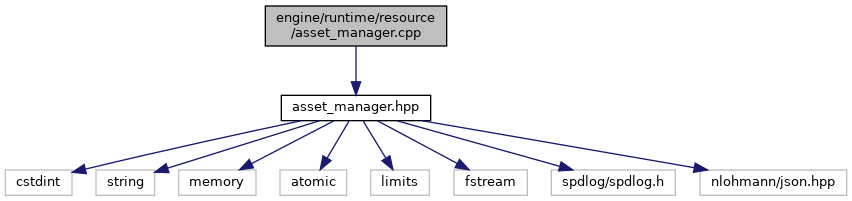
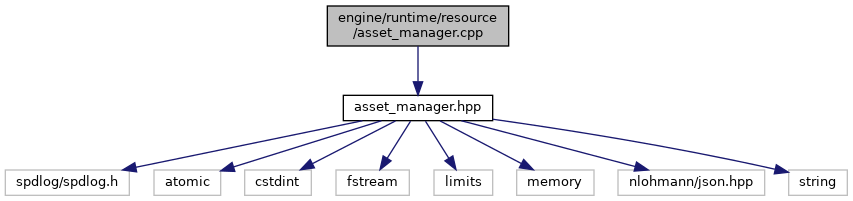
deploy: edd808a5c090523845977c7a2e71c7c18ed1472b

diff --git a/asset__manager_8hpp_source.html b/asset__manager_8hpp_source.html
@@ -92,103 +92,96 @@ $(document).ready(function(){initNavTree('asset__manager_8hpp_source.html',''); 
 <div class="line"><a name="l00005"></a><span class="lineno">    5</span>&#160;<span class="preprocessor">#ifndef TAIXUENGINE_RESOURCE_MANAGER_HPP</span></div>
 <div class="line"><a name="l00006"></a><span class="lineno">    6</span>&#160;<span class="preprocessor">#define TAIXUENGINE_RESOURCE_MANAGER_HPP</span></div>
 <div class="line"><a name="l00007"></a><span class="lineno">    7</span>&#160; </div>
-<div class="line"><a name="l00008"></a><span class="lineno">    8</span>&#160;<span class="preprocessor">#include &lt;cstdint&gt;</span></div>
-<div class="line"><a name="l00009"></a><span class="lineno">    9</span>&#160;<span class="preprocessor">#include&lt;string&gt;</span></div>
-<div class="line"><a name="l00010"></a><span class="lineno">   10</span>&#160;<span class="preprocessor">#include&lt;memory&gt;</span></div>
-<div class="line"><a name="l00011"></a><span class="lineno">   11</span>&#160;<span class="preprocessor">#include&lt;atomic&gt;</span></div>
-<div class="line"><a name="l00012"></a><span class="lineno">   12</span>&#160;<span class="preprocessor">#include&lt;limits&gt;</span></div>
-<div class="line"><a name="l00013"></a><span class="lineno">   13</span>&#160;<span class="preprocessor">#include &lt; fstream &gt;</span></div>
-<div class="line"><a name="l00014"></a><span class="lineno">   14</span>&#160;<span class="preprocessor">#include &lt;spdlog/spdlog.h&gt;</span></div>
-<div class="line"><a name="l00015"></a><span class="lineno">   15</span>&#160;<span class="preprocessor">#include&lt;nlohmann/json.hpp&gt;</span></div>
-<div class="line"><a name="l00016"></a><span class="lineno">   16</span>&#160;<span class="preprocessor">#include &lt;spdlog/spdlog.h&gt;</span></div>
+<div class="line"><a name="l00008"></a><span class="lineno">    8</span>&#160;<span class="preprocessor">#include &lt;spdlog/spdlog.h&gt;</span></div>
+<div class="line"><a name="l00009"></a><span class="lineno">    9</span>&#160; </div>
+<div class="line"><a name="l00010"></a><span class="lineno">   10</span>&#160;<span class="preprocessor">#include &lt;atomic&gt;</span></div>
+<div class="line"><a name="l00011"></a><span class="lineno">   11</span>&#160;<span class="preprocessor">#include &lt;cstdint&gt;</span></div>
+<div class="line"><a name="l00012"></a><span class="lineno">   12</span>&#160;<span class="preprocessor">#include &lt;fstream&gt;</span></div>
+<div class="line"><a name="l00013"></a><span class="lineno">   13</span>&#160;<span class="preprocessor">#include &lt;limits&gt;</span></div>
+<div class="line"><a name="l00014"></a><span class="lineno">   14</span>&#160;<span class="preprocessor">#include &lt;memory&gt;</span></div>
+<div class="line"><a name="l00015"></a><span class="lineno">   15</span>&#160;<span class="preprocessor">#include &lt;nlohmann/json.hpp&gt;</span></div>
+<div class="line"><a name="l00016"></a><span class="lineno">   16</span>&#160;<span class="preprocessor">#include &lt;string&gt;</span></div>
 <div class="line"><a name="l00017"></a><span class="lineno">   17</span>&#160; </div>
 <div class="line"><a name="l00018"></a><span class="lineno">   18</span>&#160; </div>
 <div class="line"><a name="l00019"></a><span class="lineno">   19</span>&#160;<span class="keyword">namespace </span><a class="code" href="namespacetaixu.html">taixu</a> {</div>
 <div class="line"><a name="l00020"></a><span class="lineno"><a class="line" href="namespacetaixu.html#ae915e42a97457bba37098bd5d36c633b">   20</a></span>&#160;constexpr std::uint8_t <a class="code" href="namespacetaixu.html#ae915e42a97457bba37098bd5d36c633b">INVALID_GUID</a> = std::numeric_limits&lt;std::uint8_t&gt;::max();</div>
-<div class="line"><a name="l00021"></a><span class="lineno"><a class="line" href="namespacetaixu.html#af3f42d835f57506d65a0964f16d2e5eb">   21</a></span>&#160;<span class="keyword">enum</span> <a class="code" href="namespacetaixu.html#af3f42d835f57506d65a0964f16d2e5eb">AssetType</a> {<a class="code" href="namespacetaixu.html#af3f42d835f57506d65a0964f16d2e5eba4ce415de7871d86f4a819a8776174405">Model</a>,<a class="code" href="structtaixu_1_1Texture.html">Texture</a>};</div>
-<div class="line"><a name="l00022"></a><span class="lineno"><a class="line" href="classtaixu_1_1GUID__Generator.html">   22</a></span>&#160;<span class="keyword">class </span><a class="code" href="classtaixu_1_1GUID__Generator.html">GUID_Generator</a> </div>
-<div class="line"><a name="l00023"></a><span class="lineno">   23</span>&#160;{</div>
-<div class="line"><a name="l00024"></a><span class="lineno">   24</span>&#160;<span class="keyword">public</span>:</div>
-<div class="line"><a name="l00025"></a><span class="lineno">   25</span>&#160;    <span class="keyword">static</span> std::uint8_t       <a class="code" href="classtaixu_1_1GUID__Generator.html#a4559a7695a5c3d089b8267e0dff4314c">generate_new_guid</a>();</div>
+<div class="line"><a name="l00021"></a><span class="lineno"><a class="line" href="namespacetaixu.html#af3f42d835f57506d65a0964f16d2e5eb">   21</a></span>&#160;<span class="keyword">enum</span> <a class="code" href="namespacetaixu.html#af3f42d835f57506d65a0964f16d2e5eb">AssetType</a> { <a class="code" href="namespacetaixu.html#af3f42d835f57506d65a0964f16d2e5eba4ce415de7871d86f4a819a8776174405">Model</a>, <a class="code" href="structtaixu_1_1Texture.html">Texture</a> };</div>
+<div class="line"><a name="l00022"></a><span class="lineno"><a class="line" href="classtaixu_1_1GUID__Generator.html">   22</a></span>&#160;<span class="keyword">class </span><a class="code" href="classtaixu_1_1GUID__Generator.html">GUID_Generator</a> {</div>
+<div class="line"><a name="l00023"></a><span class="lineno">   23</span>&#160;<span class="keyword">public</span>:</div>
+<div class="line"><a name="l00024"></a><span class="lineno">   24</span>&#160;    <span class="keyword">static</span> std::uint8_t <a class="code" href="classtaixu_1_1GUID__Generator.html#a4559a7695a5c3d089b8267e0dff4314c">generate_new_guid</a>();</div>
+<div class="line"><a name="l00025"></a><span class="lineno">   25</span>&#160; </div>
 <div class="line"><a name="l00026"></a><span class="lineno">   26</span>&#160;<span class="keyword">private</span>:</div>
 <div class="line"><a name="l00027"></a><span class="lineno"><a class="line" href="classtaixu_1_1GUID__Generator.html#a66f4c0e89960d7901013274e5912a7a4">   27</a></span>&#160;    <span class="keyword">static</span> std::atomic&lt;std::uint8_t&gt; <a class="code" href="classtaixu_1_1GUID__Generator.html#a66f4c0e89960d7901013274e5912a7a4">next_id</a>;</div>
 <div class="line"><a name="l00028"></a><span class="lineno">   28</span>&#160;};</div>
-<div class="line"><a name="l00029"></a><span class="lineno"><a class="line" href="structtaixu_1_1Asset.html">   29</a></span>&#160;<span class="keyword">struct </span><a class="code" href="structtaixu_1_1Asset.html">Asset</a> </div>
-<div class="line"><a name="l00030"></a><span class="lineno">   30</span>&#160;{</div>
-<div class="line"><a name="l00031"></a><span class="lineno"><a class="line" href="structtaixu_1_1Asset.html#a6b4d04eb01b3fe964fd59fc52d166cdf">   31</a></span>&#160;    std::uint8_t <a class="code" href="structtaixu_1_1Asset.html#a6b4d04eb01b3fe964fd59fc52d166cdf">guid</a>;</div>
-<div class="line"><a name="l00032"></a><span class="lineno"><a class="line" href="structtaixu_1_1Asset.html#add52499d1c566688d7402e92c2fc6fac">   32</a></span>&#160;    std::string <a class="code" href="structtaixu_1_1Asset.html#add52499d1c566688d7402e92c2fc6fac">name</a>;</div>
-<div class="line"><a name="l00033"></a><span class="lineno"><a class="line" href="structtaixu_1_1Asset.html#acf4cc5aa438489d5df63761ce5a43d02">   33</a></span>&#160;    std::string <a class="code" href="structtaixu_1_1Asset.html#acf4cc5aa438489d5df63761ce5a43d02">type</a>;</div>
-<div class="line"><a name="l00034"></a><span class="lineno"><a class="line" href="structtaixu_1_1Asset.html#a25291886a89269ab739dbc02c7da613f">   34</a></span>&#160;    std::string <a class="code" href="structtaixu_1_1Asset.html#a25291886a89269ab739dbc02c7da613f">location</a>;</div>
-<div class="line"><a name="l00035"></a><span class="lineno">   35</span>&#160;};</div>
-<div class="line"><a name="l00036"></a><span class="lineno"><a class="line" href="classtaixu_1_1Asset__Manager.html">   36</a></span>&#160;<span class="keyword">class </span><a class="code" href="classtaixu_1_1Asset__Manager.html">Asset_Manager</a> </div>
-<div class="line"><a name="l00037"></a><span class="lineno">   37</span>&#160;{</div>
-<div class="line"><a name="l00038"></a><span class="lineno">   38</span>&#160;<span class="keyword">public</span>:</div>
-<div class="line"><a name="l00039"></a><span class="lineno"><a class="line" href="classtaixu_1_1Asset__Manager.html#ad852b85b2f8bcb58ab1d9c48f5f93bc7">   39</a></span>&#160;    <a class="code" href="classtaixu_1_1Asset__Manager.html#ad852b85b2f8bcb58ab1d9c48f5f93bc7">Asset_Manager</a>()=<span class="keywordflow">default</span>;</div>
-<div class="line"><a name="l00040"></a><span class="lineno"><a class="line" href="classtaixu_1_1Asset__Manager.html#ae84abc64f39ea8ea155ea6890fb81f1b">   40</a></span>&#160;    std::vector&lt;std::shared_ptr&lt;Asset&gt;&gt; <a class="code" href="classtaixu_1_1Asset__Manager.html#ae84abc64f39ea8ea155ea6890fb81f1b">asset_list</a>;</div>
-<div class="line"><a name="l00041"></a><span class="lineno"><a class="line" href="classtaixu_1_1Asset__Manager.html#aebaa5239bbb7f0c76d0266d7fd5d5280">   41</a></span>&#160;    <span class="keyword">using</span> <a class="code" href="classtaixu_1_1Asset__Manager.html#aebaa5239bbb7f0c76d0266d7fd5d5280">Json</a>=nlohmann::json;</div>
-<div class="line"><a name="l00042"></a><span class="lineno"><a class="line" href="classtaixu_1_1Asset__Manager.html#a2306ad78335f66b090906db81e024fc2">   42</a></span>&#160;    std::string <a class="code" href="classtaixu_1_1Asset__Manager.html#a2306ad78335f66b090906db81e024fc2">asset_file_path</a> = <span class="stringliteral">&quot;INVALID&quot;</span>;</div>
-<div class="line"><a name="l00043"></a><span class="lineno">   43</span>&#160; </div>
-<div class="line"><a name="l00044"></a><span class="lineno"><a class="line" href="classtaixu_1_1Asset__Manager.html#a77196123f0cfdd2183eae565d6ce7fdb">   44</a></span>&#160;    <span class="keywordtype">void</span> <a class="code" href="classtaixu_1_1Asset__Manager.html#a77196123f0cfdd2183eae565d6ce7fdb">from_json</a>(<span class="keyword">const</span> <a class="code" href="classtaixu_1_1Asset__Manager.html#aebaa5239bbb7f0c76d0266d7fd5d5280">Json</a>&amp; j, std::shared_ptr&lt;Asset&gt; asset) {</div>
-<div class="line"><a name="l00045"></a><span class="lineno">   45</span>&#160;        j.at(<span class="stringliteral">&quot;type&quot;</span>).get_to(asset-&gt;type);</div>
-<div class="line"><a name="l00046"></a><span class="lineno">   46</span>&#160;        j.at(<span class="stringliteral">&quot;name&quot;</span>).get_to(asset-&gt;name);</div>
-<div class="line"><a name="l00047"></a><span class="lineno">   47</span>&#160;        j.at(<span class="stringliteral">&quot;location&quot;</span>).get_to(asset-&gt;location);</div>
-<div class="line"><a name="l00048"></a><span class="lineno">   48</span>&#160;    }</div>
-<div class="line"><a name="l00049"></a><span class="lineno"><a class="line" href="classtaixu_1_1Asset__Manager.html#a5de0f9f3a5aacab4faf0053e6584892e">   49</a></span>&#160;    <span class="keywordtype">void</span> <a class="code" href="classtaixu_1_1Asset__Manager.html#a5de0f9f3a5aacab4faf0053e6584892e">to_json</a>(<a class="code" href="classtaixu_1_1Asset__Manager.html#aebaa5239bbb7f0c76d0266d7fd5d5280">Json</a>&amp; j, std::shared_ptr&lt;Asset&gt; asset) {</div>
-<div class="line"><a name="l00050"></a><span class="lineno">   50</span>&#160;        j = <a class="code" href="classtaixu_1_1Asset__Manager.html#aebaa5239bbb7f0c76d0266d7fd5d5280">Json</a>{{<span class="stringliteral">&quot;type&quot;</span>, asset-&gt;type},</div>
-<div class="line"><a name="l00051"></a><span class="lineno">   51</span>&#160;                 {<span class="stringliteral">&quot;name&quot;</span>, asset-&gt;name},</div>
-<div class="line"><a name="l00052"></a><span class="lineno">   52</span>&#160;                 {<span class="stringliteral">&quot;location&quot;</span>, asset-&gt;location}};</div>
-<div class="line"><a name="l00053"></a><span class="lineno">   53</span>&#160;    }</div>
-<div class="line"><a name="l00054"></a><span class="lineno">   54</span>&#160;    </div>
-<div class="line"><a name="l00055"></a><span class="lineno"><a class="line" href="classtaixu_1_1Asset__Manager.html#a2063124a4e5496c48c6f90731b469881">   55</a></span>&#160;    <span class="keywordtype">void</span> <a class="code" href="classtaixu_1_1Asset__Manager.html#a2063124a4e5496c48c6f90731b469881">loadAsset</a>(std::string file_path) </div>
-<div class="line"><a name="l00056"></a><span class="lineno">   56</span>&#160;    {</div>
-<div class="line"><a name="l00057"></a><span class="lineno">   57</span>&#160;        std::ifstream f(file_path);</div>
-<div class="line"><a name="l00058"></a><span class="lineno">   58</span>&#160;        <span class="keywordflow">if</span> (!f.is_open()) </div>
-<div class="line"><a name="l00059"></a><span class="lineno">   59</span>&#160;        {</div>
-<div class="line"><a name="l00060"></a><span class="lineno">   60</span>&#160;            spdlog::debug(<span class="stringliteral">&quot;Unable to load Asset configure file&quot;</span>);</div>
-<div class="line"><a name="l00061"></a><span class="lineno">   61</span>&#160;        } </div>
-<div class="line"><a name="l00062"></a><span class="lineno">   62</span>&#160;        <span class="keywordflow">else</span></div>
-<div class="line"><a name="l00063"></a><span class="lineno">   63</span>&#160;            <a class="code" href="classtaixu_1_1Asset__Manager.html#a2306ad78335f66b090906db81e024fc2">asset_file_path</a> = file_path;</div>
-<div class="line"><a name="l00064"></a><span class="lineno">   64</span>&#160;        <a class="code" href="classtaixu_1_1Asset__Manager.html#aebaa5239bbb7f0c76d0266d7fd5d5280">Json</a> data =Json::parse(f);</div>
-<div class="line"><a name="l00065"></a><span class="lineno">   65</span>&#160; </div>
-<div class="line"><a name="l00066"></a><span class="lineno">   66</span>&#160;        <span class="keywordflow">for</span> (<span class="keyword">auto</span> i : data[<span class="stringliteral">&quot;assets&quot;</span>].items()) </div>
-<div class="line"><a name="l00067"></a><span class="lineno">   67</span>&#160;        {</div>
-<div class="line"><a name="l00068"></a><span class="lineno">   68</span>&#160;            std::shared_ptr&lt;Asset&gt; new_asset = std::make_shared&lt;Asset&gt;();</div>
-<div class="line"><a name="l00069"></a><span class="lineno">   69</span>&#160;            std::uint8_t new_guid = <a class="code" href="classtaixu_1_1GUID__Generator.html#a4559a7695a5c3d089b8267e0dff4314c">GUID_Generator::generate_new_guid</a>();</div>
-<div class="line"><a name="l00070"></a><span class="lineno">   70</span>&#160;            new_asset-&gt;guid       = new_guid;</div>
-<div class="line"><a name="l00071"></a><span class="lineno">   71</span>&#160;            <a class="code" href="classtaixu_1_1Asset__Manager.html#aebaa5239bbb7f0c76d0266d7fd5d5280">Json</a> j          = i.value();</div>
-<div class="line"><a name="l00072"></a><span class="lineno">   72</span>&#160;            <a class="code" href="classtaixu_1_1Asset__Manager.html#a77196123f0cfdd2183eae565d6ce7fdb">from_json</a>(j, new_asset);</div>
-<div class="line"><a name="l00073"></a><span class="lineno">   73</span>&#160;            <a class="code" href="classtaixu_1_1Asset__Manager.html#ae84abc64f39ea8ea155ea6890fb81f1b">asset_list</a>.push_back(new_asset);</div>
-<div class="line"><a name="l00074"></a><span class="lineno">   74</span>&#160;        }</div>
-<div class="line"><a name="l00075"></a><span class="lineno">   75</span>&#160;        <span class="comment">//int a = 0;</span></div>
-<div class="line"><a name="l00076"></a><span class="lineno">   76</span>&#160;    }</div>
-<div class="line"><a name="l00077"></a><span class="lineno">   77</span>&#160;    <span class="keywordtype">void</span> <a class="code" href="classtaixu_1_1Asset__Manager.html#ab630fb75b2826bf092b9446544b047ab">writeAsset</a>();</div>
-<div class="line"><a name="l00078"></a><span class="lineno">   78</span>&#160;    <span class="keywordtype">void</span> <a class="code" href="classtaixu_1_1Asset__Manager.html#a2063124a4e5496c48c6f90731b469881">loadAsset</a>(std::string file_path, <a class="code" href="namespacetaixu.html#af3f42d835f57506d65a0964f16d2e5eb">AssetType</a> asset_type);</div>
-<div class="line"><a name="l00079"></a><span class="lineno">   79</span>&#160;    </div>
-<div class="line"><a name="l00080"></a><span class="lineno">   80</span>&#160;};</div>
-<div class="line"><a name="l00081"></a><span class="lineno">   81</span>&#160;}</div>
-<div class="line"><a name="l00082"></a><span class="lineno">   82</span>&#160; </div>
-<div class="line"><a name="l00083"></a><span class="lineno">   83</span>&#160;<span class="preprocessor">#endif</span><span class="comment">//TAIXUENGINE_RESOURCE_MANAGER_HPP</span></div>
-<div class="ttc" id="aclasstaixu_1_1Asset__Manager_html"><div class="ttname"><a href="classtaixu_1_1Asset__Manager.html">taixu::Asset_Manager</a></div><div class="ttdef"><b>Definition:</b> asset_manager.hpp:37</div></div>
-<div class="ttc" id="aclasstaixu_1_1Asset__Manager_html_a2063124a4e5496c48c6f90731b469881"><div class="ttname"><a href="classtaixu_1_1Asset__Manager.html#a2063124a4e5496c48c6f90731b469881">taixu::Asset_Manager::loadAsset</a></div><div class="ttdeci">void loadAsset(std::string file_path)</div><div class="ttdef"><b>Definition:</b> asset_manager.hpp:55</div></div>
-<div class="ttc" id="aclasstaixu_1_1Asset__Manager_html_a2306ad78335f66b090906db81e024fc2"><div class="ttname"><a href="classtaixu_1_1Asset__Manager.html#a2306ad78335f66b090906db81e024fc2">taixu::Asset_Manager::asset_file_path</a></div><div class="ttdeci">std::string asset_file_path</div><div class="ttdef"><b>Definition:</b> asset_manager.hpp:42</div></div>
-<div class="ttc" id="aclasstaixu_1_1Asset__Manager_html_a5de0f9f3a5aacab4faf0053e6584892e"><div class="ttname"><a href="classtaixu_1_1Asset__Manager.html#a5de0f9f3a5aacab4faf0053e6584892e">taixu::Asset_Manager::to_json</a></div><div class="ttdeci">void to_json(Json &amp;j, std::shared_ptr&lt; Asset &gt; asset)</div><div class="ttdef"><b>Definition:</b> asset_manager.hpp:49</div></div>
-<div class="ttc" id="aclasstaixu_1_1Asset__Manager_html_a77196123f0cfdd2183eae565d6ce7fdb"><div class="ttname"><a href="classtaixu_1_1Asset__Manager.html#a77196123f0cfdd2183eae565d6ce7fdb">taixu::Asset_Manager::from_json</a></div><div class="ttdeci">void from_json(const Json &amp;j, std::shared_ptr&lt; Asset &gt; asset)</div><div class="ttdef"><b>Definition:</b> asset_manager.hpp:44</div></div>
+<div class="line"><a name="l00029"></a><span class="lineno"><a class="line" href="structtaixu_1_1Asset.html">   29</a></span>&#160;<span class="keyword">struct </span><a class="code" href="structtaixu_1_1Asset.html">Asset</a> {</div>
+<div class="line"><a name="l00030"></a><span class="lineno"><a class="line" href="structtaixu_1_1Asset.html#a6b4d04eb01b3fe964fd59fc52d166cdf">   30</a></span>&#160;    std::uint8_t <a class="code" href="structtaixu_1_1Asset.html#a6b4d04eb01b3fe964fd59fc52d166cdf">guid</a>;</div>
+<div class="line"><a name="l00031"></a><span class="lineno"><a class="line" href="structtaixu_1_1Asset.html#add52499d1c566688d7402e92c2fc6fac">   31</a></span>&#160;    std::string  <a class="code" href="structtaixu_1_1Asset.html#add52499d1c566688d7402e92c2fc6fac">name</a>;</div>
+<div class="line"><a name="l00032"></a><span class="lineno"><a class="line" href="structtaixu_1_1Asset.html#acf4cc5aa438489d5df63761ce5a43d02">   32</a></span>&#160;    std::string  <a class="code" href="structtaixu_1_1Asset.html#acf4cc5aa438489d5df63761ce5a43d02">type</a>;</div>
+<div class="line"><a name="l00033"></a><span class="lineno"><a class="line" href="structtaixu_1_1Asset.html#a25291886a89269ab739dbc02c7da613f">   33</a></span>&#160;    std::string  <a class="code" href="structtaixu_1_1Asset.html#a25291886a89269ab739dbc02c7da613f">location</a>;</div>
+<div class="line"><a name="l00034"></a><span class="lineno">   34</span>&#160;};</div>
+<div class="line"><a name="l00035"></a><span class="lineno"><a class="line" href="classtaixu_1_1Asset__Manager.html">   35</a></span>&#160;<span class="keyword">class </span><a class="code" href="classtaixu_1_1Asset__Manager.html">Asset_Manager</a> {</div>
+<div class="line"><a name="l00036"></a><span class="lineno">   36</span>&#160;<span class="keyword">public</span>:</div>
+<div class="line"><a name="l00037"></a><span class="lineno"><a class="line" href="classtaixu_1_1Asset__Manager.html#ad852b85b2f8bcb58ab1d9c48f5f93bc7">   37</a></span>&#160;    <a class="code" href="classtaixu_1_1Asset__Manager.html#ad852b85b2f8bcb58ab1d9c48f5f93bc7">Asset_Manager</a>() = <span class="keywordflow">default</span>;</div>
+<div class="line"><a name="l00038"></a><span class="lineno"><a class="line" href="classtaixu_1_1Asset__Manager.html#ae84abc64f39ea8ea155ea6890fb81f1b">   38</a></span>&#160;    std::vector&lt;std::shared_ptr&lt;Asset&gt;&gt; <a class="code" href="classtaixu_1_1Asset__Manager.html#ae84abc64f39ea8ea155ea6890fb81f1b">asset_list</a>;</div>
+<div class="line"><a name="l00039"></a><span class="lineno"><a class="line" href="classtaixu_1_1Asset__Manager.html#aebaa5239bbb7f0c76d0266d7fd5d5280">   39</a></span>&#160;    <span class="keyword">using</span> <a class="code" href="classtaixu_1_1Asset__Manager.html#aebaa5239bbb7f0c76d0266d7fd5d5280">Json</a>                  = nlohmann::json;</div>
+<div class="line"><a name="l00040"></a><span class="lineno"><a class="line" href="classtaixu_1_1Asset__Manager.html#a2306ad78335f66b090906db81e024fc2">   40</a></span>&#160;    std::string <a class="code" href="classtaixu_1_1Asset__Manager.html#a2306ad78335f66b090906db81e024fc2">asset_file_path</a> = <span class="stringliteral">&quot;INVALID&quot;</span>;</div>
+<div class="line"><a name="l00041"></a><span class="lineno">   41</span>&#160; </div>
+<div class="line"><a name="l00042"></a><span class="lineno"><a class="line" href="classtaixu_1_1Asset__Manager.html#a77196123f0cfdd2183eae565d6ce7fdb">   42</a></span>&#160;    <span class="keywordtype">void</span> <a class="code" href="classtaixu_1_1Asset__Manager.html#a77196123f0cfdd2183eae565d6ce7fdb">from_json</a>(<span class="keyword">const</span> <a class="code" href="classtaixu_1_1Asset__Manager.html#aebaa5239bbb7f0c76d0266d7fd5d5280">Json</a>&amp; j, std::shared_ptr&lt;Asset&gt; asset) {</div>
+<div class="line"><a name="l00043"></a><span class="lineno">   43</span>&#160;        j.at(<span class="stringliteral">&quot;type&quot;</span>).get_to(asset-&gt;type);</div>
+<div class="line"><a name="l00044"></a><span class="lineno">   44</span>&#160;        j.at(<span class="stringliteral">&quot;name&quot;</span>).get_to(asset-&gt;name);</div>
+<div class="line"><a name="l00045"></a><span class="lineno">   45</span>&#160;        j.at(<span class="stringliteral">&quot;location&quot;</span>).get_to(asset-&gt;location);</div>
+<div class="line"><a name="l00046"></a><span class="lineno">   46</span>&#160;    }</div>
+<div class="line"><a name="l00047"></a><span class="lineno"><a class="line" href="classtaixu_1_1Asset__Manager.html#a5de0f9f3a5aacab4faf0053e6584892e">   47</a></span>&#160;    <span class="keywordtype">void</span> <a class="code" href="classtaixu_1_1Asset__Manager.html#a5de0f9f3a5aacab4faf0053e6584892e">to_json</a>(<a class="code" href="classtaixu_1_1Asset__Manager.html#aebaa5239bbb7f0c76d0266d7fd5d5280">Json</a>&amp; j, std::shared_ptr&lt;Asset&gt; asset) {</div>
+<div class="line"><a name="l00048"></a><span class="lineno">   48</span>&#160;        j = <a class="code" href="classtaixu_1_1Asset__Manager.html#aebaa5239bbb7f0c76d0266d7fd5d5280">Json</a>{{<span class="stringliteral">&quot;type&quot;</span>, asset-&gt;type},</div>
+<div class="line"><a name="l00049"></a><span class="lineno">   49</span>&#160;                 {<span class="stringliteral">&quot;name&quot;</span>, asset-&gt;name},</div>
+<div class="line"><a name="l00050"></a><span class="lineno">   50</span>&#160;                 {<span class="stringliteral">&quot;location&quot;</span>, asset-&gt;location}};</div>
+<div class="line"><a name="l00051"></a><span class="lineno">   51</span>&#160;    }</div>
+<div class="line"><a name="l00052"></a><span class="lineno">   52</span>&#160; </div>
+<div class="line"><a name="l00053"></a><span class="lineno"><a class="line" href="classtaixu_1_1Asset__Manager.html#a2063124a4e5496c48c6f90731b469881">   53</a></span>&#160;    <span class="keywordtype">void</span> <a class="code" href="classtaixu_1_1Asset__Manager.html#a2063124a4e5496c48c6f90731b469881">loadAsset</a>(std::string file_path) {</div>
+<div class="line"><a name="l00054"></a><span class="lineno">   54</span>&#160;        std::ifstream f(file_path);</div>
+<div class="line"><a name="l00055"></a><span class="lineno">   55</span>&#160;        <span class="keywordflow">if</span> (!f.is_open()) {</div>
+<div class="line"><a name="l00056"></a><span class="lineno">   56</span>&#160;            spdlog::debug(<span class="stringliteral">&quot;Unable to load Asset configure file&quot;</span>);</div>
+<div class="line"><a name="l00057"></a><span class="lineno">   57</span>&#160;        } <span class="keywordflow">else</span></div>
+<div class="line"><a name="l00058"></a><span class="lineno">   58</span>&#160;            <a class="code" href="classtaixu_1_1Asset__Manager.html#a2306ad78335f66b090906db81e024fc2">asset_file_path</a> = file_path;</div>
+<div class="line"><a name="l00059"></a><span class="lineno">   59</span>&#160;        <a class="code" href="classtaixu_1_1Asset__Manager.html#aebaa5239bbb7f0c76d0266d7fd5d5280">Json</a> data = Json::parse(f);</div>
+<div class="line"><a name="l00060"></a><span class="lineno">   60</span>&#160; </div>
+<div class="line"><a name="l00061"></a><span class="lineno">   61</span>&#160;        <span class="keywordflow">for</span> (<span class="keyword">auto</span> i : data[<span class="stringliteral">&quot;assets&quot;</span>].items()) {</div>
+<div class="line"><a name="l00062"></a><span class="lineno">   62</span>&#160;            std::shared_ptr&lt;Asset&gt; new_asset = std::make_shared&lt;Asset&gt;();</div>
+<div class="line"><a name="l00063"></a><span class="lineno">   63</span>&#160;            std::uint8_t new_guid = <a class="code" href="classtaixu_1_1GUID__Generator.html#a4559a7695a5c3d089b8267e0dff4314c">GUID_Generator::generate_new_guid</a>();</div>
+<div class="line"><a name="l00064"></a><span class="lineno">   64</span>&#160;            new_asset-&gt;guid       = new_guid;</div>
+<div class="line"><a name="l00065"></a><span class="lineno">   65</span>&#160;            <a class="code" href="classtaixu_1_1Asset__Manager.html#aebaa5239bbb7f0c76d0266d7fd5d5280">Json</a> j                = i.value();</div>
+<div class="line"><a name="l00066"></a><span class="lineno">   66</span>&#160;            <a class="code" href="classtaixu_1_1Asset__Manager.html#a77196123f0cfdd2183eae565d6ce7fdb">from_json</a>(j, new_asset);</div>
+<div class="line"><a name="l00067"></a><span class="lineno">   67</span>&#160;            <a class="code" href="classtaixu_1_1Asset__Manager.html#ae84abc64f39ea8ea155ea6890fb81f1b">asset_list</a>.push_back(new_asset);</div>
+<div class="line"><a name="l00068"></a><span class="lineno">   68</span>&#160;        }</div>
+<div class="line"><a name="l00069"></a><span class="lineno">   69</span>&#160;        <span class="comment">//int a = 0;</span></div>
+<div class="line"><a name="l00070"></a><span class="lineno">   70</span>&#160;    }</div>
+<div class="line"><a name="l00071"></a><span class="lineno">   71</span>&#160;    <span class="keywordtype">void</span> <a class="code" href="classtaixu_1_1Asset__Manager.html#ab630fb75b2826bf092b9446544b047ab">writeAsset</a>();</div>
+<div class="line"><a name="l00072"></a><span class="lineno">   72</span>&#160;    <span class="keywordtype">void</span> <a class="code" href="classtaixu_1_1Asset__Manager.html#a2063124a4e5496c48c6f90731b469881">loadAsset</a>(std::string file_path, <a class="code" href="namespacetaixu.html#af3f42d835f57506d65a0964f16d2e5eb">AssetType</a> asset_type);</div>
+<div class="line"><a name="l00073"></a><span class="lineno">   73</span>&#160;};</div>
+<div class="line"><a name="l00074"></a><span class="lineno">   74</span>&#160;}<span class="comment">// namespace taixu</span></div>
+<div class="line"><a name="l00075"></a><span class="lineno">   75</span>&#160; </div>
+<div class="line"><a name="l00076"></a><span class="lineno">   76</span>&#160;<span class="preprocessor">#endif</span><span class="comment">//TAIXUENGINE_RESOURCE_MANAGER_HPP</span></div>
+<div class="ttc" id="aclasstaixu_1_1Asset__Manager_html"><div class="ttname"><a href="classtaixu_1_1Asset__Manager.html">taixu::Asset_Manager</a></div><div class="ttdef"><b>Definition:</b> asset_manager.hpp:35</div></div>
+<div class="ttc" id="aclasstaixu_1_1Asset__Manager_html_a2063124a4e5496c48c6f90731b469881"><div class="ttname"><a href="classtaixu_1_1Asset__Manager.html#a2063124a4e5496c48c6f90731b469881">taixu::Asset_Manager::loadAsset</a></div><div class="ttdeci">void loadAsset(std::string file_path)</div><div class="ttdef"><b>Definition:</b> asset_manager.hpp:53</div></div>
+<div class="ttc" id="aclasstaixu_1_1Asset__Manager_html_a2306ad78335f66b090906db81e024fc2"><div class="ttname"><a href="classtaixu_1_1Asset__Manager.html#a2306ad78335f66b090906db81e024fc2">taixu::Asset_Manager::asset_file_path</a></div><div class="ttdeci">std::string asset_file_path</div><div class="ttdef"><b>Definition:</b> asset_manager.hpp:40</div></div>
+<div class="ttc" id="aclasstaixu_1_1Asset__Manager_html_a5de0f9f3a5aacab4faf0053e6584892e"><div class="ttname"><a href="classtaixu_1_1Asset__Manager.html#a5de0f9f3a5aacab4faf0053e6584892e">taixu::Asset_Manager::to_json</a></div><div class="ttdeci">void to_json(Json &amp;j, std::shared_ptr&lt; Asset &gt; asset)</div><div class="ttdef"><b>Definition:</b> asset_manager.hpp:47</div></div>
+<div class="ttc" id="aclasstaixu_1_1Asset__Manager_html_a77196123f0cfdd2183eae565d6ce7fdb"><div class="ttname"><a href="classtaixu_1_1Asset__Manager.html#a77196123f0cfdd2183eae565d6ce7fdb">taixu::Asset_Manager::from_json</a></div><div class="ttdeci">void from_json(const Json &amp;j, std::shared_ptr&lt; Asset &gt; asset)</div><div class="ttdef"><b>Definition:</b> asset_manager.hpp:42</div></div>
 <div class="ttc" id="aclasstaixu_1_1Asset__Manager_html_ab630fb75b2826bf092b9446544b047ab"><div class="ttname"><a href="classtaixu_1_1Asset__Manager.html#ab630fb75b2826bf092b9446544b047ab">taixu::Asset_Manager::writeAsset</a></div><div class="ttdeci">void writeAsset()</div><div class="ttdef"><b>Definition:</b> asset_manager.cpp:19</div></div>
 <div class="ttc" id="aclasstaixu_1_1Asset__Manager_html_ad852b85b2f8bcb58ab1d9c48f5f93bc7"><div class="ttname"><a href="classtaixu_1_1Asset__Manager.html#ad852b85b2f8bcb58ab1d9c48f5f93bc7">taixu::Asset_Manager::Asset_Manager</a></div><div class="ttdeci">Asset_Manager()=default</div></div>
-<div class="ttc" id="aclasstaixu_1_1Asset__Manager_html_ae84abc64f39ea8ea155ea6890fb81f1b"><div class="ttname"><a href="classtaixu_1_1Asset__Manager.html#ae84abc64f39ea8ea155ea6890fb81f1b">taixu::Asset_Manager::asset_list</a></div><div class="ttdeci">std::vector&lt; std::shared_ptr&lt; Asset &gt; &gt; asset_list</div><div class="ttdef"><b>Definition:</b> asset_manager.hpp:40</div></div>
-<div class="ttc" id="aclasstaixu_1_1Asset__Manager_html_aebaa5239bbb7f0c76d0266d7fd5d5280"><div class="ttname"><a href="classtaixu_1_1Asset__Manager.html#aebaa5239bbb7f0c76d0266d7fd5d5280">taixu::Asset_Manager::Json</a></div><div class="ttdeci">nlohmann::json Json</div><div class="ttdef"><b>Definition:</b> asset_manager.hpp:41</div></div>
-<div class="ttc" id="aclasstaixu_1_1GUID__Generator_html"><div class="ttname"><a href="classtaixu_1_1GUID__Generator.html">taixu::GUID_Generator</a></div><div class="ttdef"><b>Definition:</b> asset_manager.hpp:23</div></div>
+<div class="ttc" id="aclasstaixu_1_1Asset__Manager_html_ae84abc64f39ea8ea155ea6890fb81f1b"><div class="ttname"><a href="classtaixu_1_1Asset__Manager.html#ae84abc64f39ea8ea155ea6890fb81f1b">taixu::Asset_Manager::asset_list</a></div><div class="ttdeci">std::vector&lt; std::shared_ptr&lt; Asset &gt; &gt; asset_list</div><div class="ttdef"><b>Definition:</b> asset_manager.hpp:38</div></div>
+<div class="ttc" id="aclasstaixu_1_1Asset__Manager_html_aebaa5239bbb7f0c76d0266d7fd5d5280"><div class="ttname"><a href="classtaixu_1_1Asset__Manager.html#aebaa5239bbb7f0c76d0266d7fd5d5280">taixu::Asset_Manager::Json</a></div><div class="ttdeci">nlohmann::json Json</div><div class="ttdef"><b>Definition:</b> asset_manager.hpp:39</div></div>
+<div class="ttc" id="aclasstaixu_1_1GUID__Generator_html"><div class="ttname"><a href="classtaixu_1_1GUID__Generator.html">taixu::GUID_Generator</a></div><div class="ttdef"><b>Definition:</b> asset_manager.hpp:22</div></div>
 <div class="ttc" id="aclasstaixu_1_1GUID__Generator_html_a4559a7695a5c3d089b8267e0dff4314c"><div class="ttname"><a href="classtaixu_1_1GUID__Generator.html#a4559a7695a5c3d089b8267e0dff4314c">taixu::GUID_Generator::generate_new_guid</a></div><div class="ttdeci">static std::uint8_t generate_new_guid()</div><div class="ttdef"><b>Definition:</b> asset_manager.cpp:11</div></div>
 <div class="ttc" id="aclasstaixu_1_1GUID__Generator_html_a66f4c0e89960d7901013274e5912a7a4"><div class="ttname"><a href="classtaixu_1_1GUID__Generator.html#a66f4c0e89960d7901013274e5912a7a4">taixu::GUID_Generator::next_id</a></div><div class="ttdeci">static std::atomic&lt; std::uint8_t &gt; next_id</div><div class="ttdef"><b>Definition:</b> asset_manager.hpp:27</div></div>
 <div class="ttc" id="anamespacetaixu_html"><div class="ttname"><a href="namespacetaixu.html">taixu</a></div><div class="ttdef"><b>Definition:</b> application.cpp:13</div></div>
 <div class="ttc" id="anamespacetaixu_html_ae915e42a97457bba37098bd5d36c633b"><div class="ttname"><a href="namespacetaixu.html#ae915e42a97457bba37098bd5d36c633b">taixu::INVALID_GUID</a></div><div class="ttdeci">constexpr std::uint8_t INVALID_GUID</div><div class="ttdef"><b>Definition:</b> asset_manager.hpp:20</div></div>
 <div class="ttc" id="anamespacetaixu_html_af3f42d835f57506d65a0964f16d2e5eb"><div class="ttname"><a href="namespacetaixu.html#af3f42d835f57506d65a0964f16d2e5eb">taixu::AssetType</a></div><div class="ttdeci">AssetType</div><div class="ttdef"><b>Definition:</b> asset_manager.hpp:21</div></div>
 <div class="ttc" id="anamespacetaixu_html_af3f42d835f57506d65a0964f16d2e5eba4ce415de7871d86f4a819a8776174405"><div class="ttname"><a href="namespacetaixu.html#af3f42d835f57506d65a0964f16d2e5eba4ce415de7871d86f4a819a8776174405">taixu::Model</a></div><div class="ttdeci">@ Model</div><div class="ttdef"><b>Definition:</b> asset_manager.hpp:21</div></div>
-<div class="ttc" id="astructtaixu_1_1Asset_html"><div class="ttname"><a href="structtaixu_1_1Asset.html">taixu::Asset</a></div><div class="ttdef"><b>Definition:</b> asset_manager.hpp:30</div></div>
-<div class="ttc" id="astructtaixu_1_1Asset_html_a25291886a89269ab739dbc02c7da613f"><div class="ttname"><a href="structtaixu_1_1Asset.html#a25291886a89269ab739dbc02c7da613f">taixu::Asset::location</a></div><div class="ttdeci">std::string location</div><div class="ttdef"><b>Definition:</b> asset_manager.hpp:34</div></div>
-<div class="ttc" id="astructtaixu_1_1Asset_html_a6b4d04eb01b3fe964fd59fc52d166cdf"><div class="ttname"><a href="structtaixu_1_1Asset.html#a6b4d04eb01b3fe964fd59fc52d166cdf">taixu::Asset::guid</a></div><div class="ttdeci">std::uint8_t guid</div><div class="ttdef"><b>Definition:</b> asset_manager.hpp:31</div></div>
-<div class="ttc" id="astructtaixu_1_1Asset_html_acf4cc5aa438489d5df63761ce5a43d02"><div class="ttname"><a href="structtaixu_1_1Asset.html#acf4cc5aa438489d5df63761ce5a43d02">taixu::Asset::type</a></div><div class="ttdeci">std::string type</div><div class="ttdef"><b>Definition:</b> asset_manager.hpp:33</div></div>
-<div class="ttc" id="astructtaixu_1_1Asset_html_add52499d1c566688d7402e92c2fc6fac"><div class="ttname"><a href="structtaixu_1_1Asset.html#add52499d1c566688d7402e92c2fc6fac">taixu::Asset::name</a></div><div class="ttdeci">std::string name</div><div class="ttdef"><b>Definition:</b> asset_manager.hpp:32</div></div>
+<div class="ttc" id="astructtaixu_1_1Asset_html"><div class="ttname"><a href="structtaixu_1_1Asset.html">taixu::Asset</a></div><div class="ttdef"><b>Definition:</b> asset_manager.hpp:29</div></div>
+<div class="ttc" id="astructtaixu_1_1Asset_html_a25291886a89269ab739dbc02c7da613f"><div class="ttname"><a href="structtaixu_1_1Asset.html#a25291886a89269ab739dbc02c7da613f">taixu::Asset::location</a></div><div class="ttdeci">std::string location</div><div class="ttdef"><b>Definition:</b> asset_manager.hpp:33</div></div>
+<div class="ttc" id="astructtaixu_1_1Asset_html_a6b4d04eb01b3fe964fd59fc52d166cdf"><div class="ttname"><a href="structtaixu_1_1Asset.html#a6b4d04eb01b3fe964fd59fc52d166cdf">taixu::Asset::guid</a></div><div class="ttdeci">std::uint8_t guid</div><div class="ttdef"><b>Definition:</b> asset_manager.hpp:30</div></div>
+<div class="ttc" id="astructtaixu_1_1Asset_html_acf4cc5aa438489d5df63761ce5a43d02"><div class="ttname"><a href="structtaixu_1_1Asset.html#acf4cc5aa438489d5df63761ce5a43d02">taixu::Asset::type</a></div><div class="ttdeci">std::string type</div><div class="ttdef"><b>Definition:</b> asset_manager.hpp:32</div></div>
+<div class="ttc" id="astructtaixu_1_1Asset_html_add52499d1c566688d7402e92c2fc6fac"><div class="ttname"><a href="structtaixu_1_1Asset.html#add52499d1c566688d7402e92c2fc6fac">taixu::Asset::name</a></div><div class="ttdeci">std::string name</div><div class="ttdef"><b>Definition:</b> asset_manager.hpp:31</div></div>
 <div class="ttc" id="astructtaixu_1_1Texture_html"><div class="ttname"><a href="structtaixu_1_1Texture.html">taixu::Texture</a></div><div class="ttdef"><b>Definition:</b> mesh.hpp:32</div></div>
 </div><!-- fragment --></div><!-- contents -->
 </div><!-- doc-content -->

diff --git a/asset__manager_8hpp.html b/asset__manager_8hpp.html
@@ -90,28 +90,28 @@ $(document).ready(function(){initNavTree('asset__manager_8hpp.html',''); initRes
 <div class="title">asset_manager.hpp File Reference</div>  </div>
 </div><!--header-->
 <div class="contents">
-<div class="textblock"><code>#include &lt;cstdint&gt;</code><br />
-<code>#include &lt;string&gt;</code><br />
-<code>#include &lt;memory&gt;</code><br />
+<div class="textblock"><code>#include &lt;spdlog/spdlog.h&gt;</code><br />
 <code>#include &lt;atomic&gt;</code><br />
-<code>#include &lt;limits&gt;</code><br />
+<code>#include &lt;cstdint&gt;</code><br />
 <code>#include &lt;fstream&gt;</code><br />
-<code>#include &lt;spdlog/spdlog.h&gt;</code><br />
+<code>#include &lt;limits&gt;</code><br />
+<code>#include &lt;memory&gt;</code><br />
 <code>#include &lt;nlohmann/json.hpp&gt;</code><br />
+<code>#include &lt;string&gt;</code><br />
 </div><div class="textblock"><div class="dynheader">
 Include dependency graph for asset_manager.hpp:</div>
 <div class="dyncontent">
 <div class="center"><img src="asset__manager_8hpp__incl.png" border="0" usemap="#aengine_2runtime_2resource_2asset__manager_8hpp" alt=""/></div>
 <map name="aengine_2runtime_2resource_2asset__manager_8hpp" id="aengine_2runtime_2resource_2asset__manager_8hpp">
-<area shape="rect" title=" " alt="" coords="265,5,447,47"/>
-<area shape="rect" title=" " alt="" coords="5,95,72,121"/>
-<area shape="rect" title=" " alt="" coords="96,95,155,121"/>
-<area shape="rect" title=" " alt="" coords="179,95,256,121"/>
-<area shape="rect" title=" " alt="" coords="280,95,347,121"/>
-<area shape="rect" title=" " alt="" coords="371,95,429,121"/>
-<area shape="rect" title=" " alt="" coords="454,95,527,121"/>
-<area shape="rect" title=" " alt="" coords="551,95,675,121"/>
-<area shape="rect" title=" " alt="" coords="700,95,847,121"/>
+<area shape="rect" title=" " alt="" coords="327,5,509,47"/>
+<area shape="rect" title=" " alt="" coords="5,95,129,121"/>
+<area shape="rect" title=" " alt="" coords="154,95,221,121"/>
+<area shape="rect" title=" " alt="" coords="245,95,311,121"/>
+<area shape="rect" title=" " alt="" coords="336,95,409,121"/>
+<area shape="rect" title=" " alt="" coords="434,95,493,121"/>
+<area shape="rect" title=" " alt="" coords="517,95,594,121"/>
+<area shape="rect" title=" " alt="" coords="618,95,765,121"/>
+<area shape="rect" title=" " alt="" coords="789,95,847,121"/>
 </map>
 </div>
 </div><div class="textblock"><div class="dynheader">

diff --git a/asset__manager_8cpp.html b/asset__manager_8cpp.html
@@ -93,16 +93,16 @@ Include dependency graph for asset_manager.cpp:</div>
 <div class="dyncontent">
 <div class="center"><img src="asset__manager_8cpp__incl.png" border="0" usemap="#aengine_2runtime_2resource_2asset__manager_8cpp" alt=""/></div>
 <map name="aengine_2runtime_2resource_2asset__manager_8cpp" id="aengine_2runtime_2resource_2asset__manager_8cpp">
-<area shape="rect" title=" " alt="" coords="265,5,447,47"/>
-<area shape="rect" href="asset__manager_8hpp.html" title=" " alt="" coords="281,95,431,121"/>
-<area shape="rect" title=" " alt="" coords="5,169,72,196"/>
-<area shape="rect" title=" " alt="" coords="96,169,155,196"/>
-<area shape="rect" title=" " alt="" coords="179,169,256,196"/>
-<area shape="rect" title=" " alt="" coords="280,169,347,196"/>
-<area shape="rect" title=" " alt="" coords="371,169,429,196"/>
-<area shape="rect" title=" " alt="" coords="454,169,527,196"/>
-<area shape="rect" title=" " alt="" coords="551,169,675,196"/>
-<area shape="rect" title=" " alt="" coords="700,169,847,196"/>
+<area shape="rect" title=" " alt="" coords="327,5,509,47"/>
+<area shape="rect" href="asset__manager_8hpp.html" title=" " alt="" coords="343,95,493,121"/>
+<area shape="rect" title=" " alt="" coords="5,169,129,196"/>
+<area shape="rect" title=" " alt="" coords="154,169,221,196"/>
+<area shape="rect" title=" " alt="" coords="245,169,311,196"/>
+<area shape="rect" title=" " alt="" coords="336,169,409,196"/>
+<area shape="rect" title=" " alt="" coords="434,169,493,196"/>
+<area shape="rect" title=" " alt="" coords="517,169,594,196"/>
+<area shape="rect" title=" " alt="" coords="618,169,765,196"/>
+<area shape="rect" title=" " alt="" coords="789,169,847,196"/>
 </map>
 </div>
 </div><table class="memberdecls">
